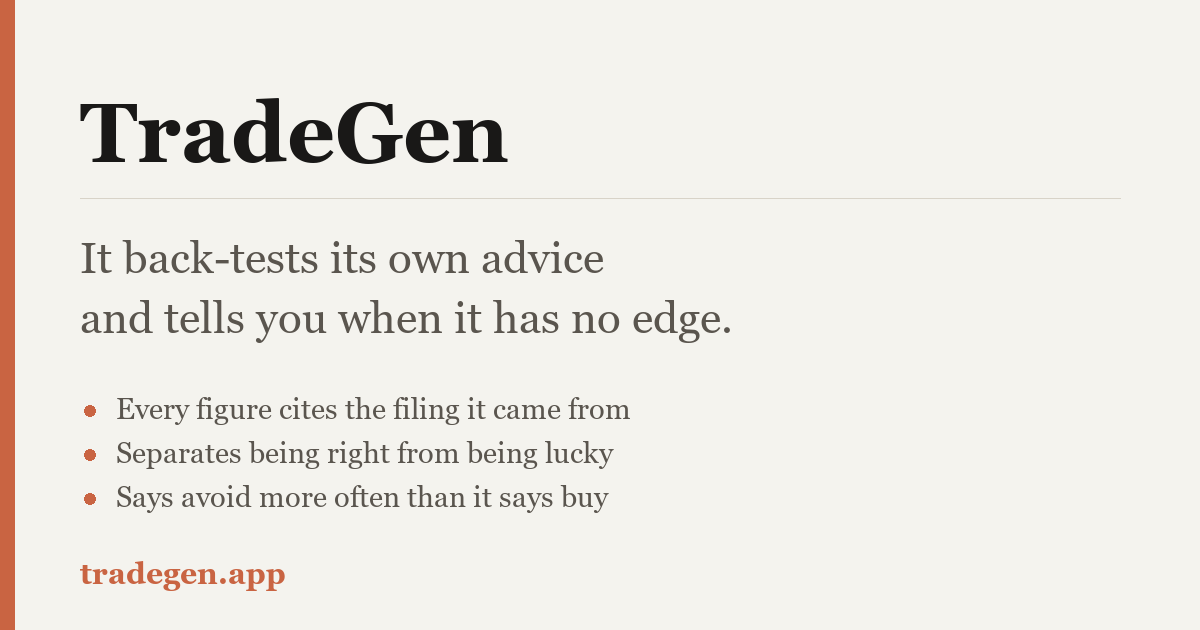
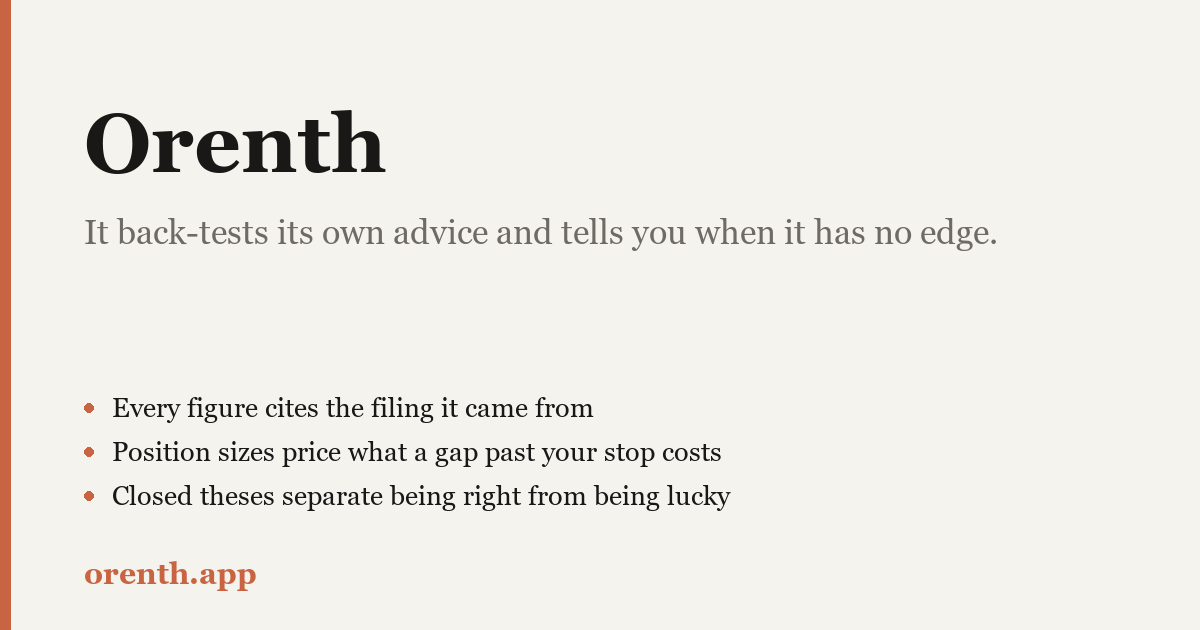
Rename the product to Orenth
TradeGen collided with an established crypto project that owns the word in
search results, so the name could never be searched for. Orenth has no
incumbent: the domain was unregistered and the word returns nothing.

The domain itself was only ever hardcoded in one test; everything else
reads STOCKBOT_PUBLIC_URL, so the cutover is an environment variable and
not a code change. The preview card had the old name painted into it, so
it is now generated by a script rather than drawn once by hand.

diff --git a/templates/legal.html b/templates/legal.html
@@ -1,6 +1,6 @@
 {% extends "base.html" %}
 {% set active = 'legal' %}
-{% block title %}{{ heading }} · TradeGen{% endblock %}
+{% block title %}{{ heading }} · Orenth{% endblock %}
 {% block content %}
 
 <div class="pagehead">
@@ -12,13 +12,13 @@
 {% if page == 'privacy' %}
 
   <p class="prose">
-    This describes what TradeGen actually does with data. It is written to be
+    This describes what Orenth actually does with data. It is written to be
     checkable against the source rather than to be comprehensive, and where a
     thing does not happen it says so plainly instead of staying silent.
   </p>
 
   <h2>What is collected</h2>
-  <p class="prose">If you sign in with Google, TradeGen receives and stores:</p>
+  <p class="prose">If you sign in with Google, Orenth receives and stores:</p>
   <ul class="list">
     <li>Your email address, used as the identity of your account.</li>
     <li>Your name and profile picture, used to show who is signed in.</li>
@@ -26,7 +26,7 @@
       email address changes.</li>
   </ul>
   <p class="prose">
-    That is the whole of it. TradeGen asks Google only for the
+    That is the whole of it. Orenth asks Google only for the
     <span class="fig">openid</span>, <span class="fig">email</span> and
     <span class="fig">profile</span> scopes. It cannot read your Gmail, Drive,
     contacts or calendar, and it never sees your Google password.
@@ -49,7 +49,7 @@
 
   <h2>Where data goes</h2>
   <p class="prose">
-    To produce an analysis, TradeGen sends the instrument you asked about to
+    To produce an analysis, Orenth sends the instrument you asked about to
     the sources it reads. It does not send your identity, your positions or your
     journal to any of them.
   </p>
@@ -102,7 +102,7 @@
 
   <h2>What this is</h2>
   <p class="prose">
-    TradeGen is analysis software. It reads public market data, filings, news
+    Orenth is analysis software. It reads public market data, filings, news
     and social posts, applies a set of strategies to them, back-tests those
     strategies against the instrument's own history, and reports what it found.
   </p>

diff --git a/templates/base.html b/templates/base.html
@@ -9,19 +9,19 @@
    click and a link people scroll past. #}
 {% set _blurb = "Free stock and crypto research. It back-tests its own advice, charges real trading costs, and tells you when it has no edge. Every company figure cites the SEC filing it came from." %}
 <meta name="description" content="{{ _blurb }}">
-<meta property="og:site_name" content="TradeGen">
+<meta property="og:site_name" content="Orenth">
 <meta property="og:type" content="website">
-<meta property="og:title" content="{% block og_title %}TradeGen{% endblock %}">
+<meta property="og:title" content="{% block og_title %}Orenth{% endblock %}">
 <meta property="og:description" content="{{ _blurb }}">
 <meta property="og:url" content="{{ canonical_url }}">
 <meta property="og:image" content="{{ preview_image }}">
 <meta property="og:image:width" content="1200">
 <meta property="og:image:height" content="630">
 <meta name="twitter:card" content="summary_large_image">
-<meta name="twitter:title" content="TradeGen">
+<meta name="twitter:title" content="Orenth">
 <meta name="twitter:description" content="{{ _blurb }}">
 <meta name="twitter:image" content="{{ preview_image }}">
-<title>{% block title %}TradeGen{% endblock %}</title>
+<title>{% block title %}Orenth{% endblock %}</title>
 {# Preconnect first so the font request is not waiting on DNS and TLS.
    Source Serif stands in for Tiempos, Inter for Styrene, JetBrains Mono for
    the figures. All three have real fallback stacks in the CSS. #}
@@ -42,7 +42,7 @@
           <path d="M3 16.5l5.5-6 4 3.5L21 5"/><path d="M15 5h6v6"/>
         </svg>
       </span>
-      TradeGen
+      Orenth
     </a>
     <nav class="nav">
       <a href="{{ url_for('index') }}"
@@ -144,7 +144,7 @@
       bar.hidden = false;
       if (window.Notification && Notification.permission === 'granted') {
         try {
-          new Notification('TradeGen', { body: text.textContent });
+          new Notification('Orenth', { body: text.textContent });
         } catch (e) {}
       }
     }

diff --git a/templates/signin.html b/templates/signin.html
@@ -1,6 +1,6 @@
 {% extends "base.html" %}
 {% set active = 'signin' %}
-{% block title %}TradeGen · Stock and crypto research that back-tests its own advice{% endblock %}
+{% block title %}Orenth · Stock and crypto research that back-tests its own advice{% endblock %}
 {% block content %}
 
 <div class="signin">
@@ -11,7 +11,7 @@
     </svg>
   </div>
 
-  <h1>TradeGen</h1>
+  <h1>Orenth</h1>
   <p class="lede">
     Most tools tell you what to buy. This one back-tests its own advice, tells
     you when there is no edge, and keeps score of whether you were right for
@@ -42,7 +42,7 @@
       Continue with Google
     </a>
     <p class="fine">
-      TradeGen asks Google only for your name, email address and profile
+      Orenth asks Google only for your name, email address and profile
       picture. It cannot see anything else in your Google account, and it never
       sees your password.
     </p>

diff --git a/templates/error.html b/templates/error.html
@@ -1,5 +1,5 @@
 {% extends "base.html" %}
-{% block title %}Something went wrong · TradeGen{% endblock %}
+{% block title %}Something went wrong · Orenth{% endblock %}
 {% block content %}
 
 <div class="pagehead">
@@ -13,7 +13,7 @@
   <p class="fig loss" style="font-size:var(--t-sm);margin:0 0 var(--s2)">{{ message }}</p>
   {% if no_key %}
     <p class="prose">To read charts from images, create a file called
-      <b>.env</b> in the TradeGen folder containing:</p>
+      <b>.env</b> in the Orenth folder containing:</p>
     <p class="fig" style="background:var(--sunken);border:1px solid var(--rule);
        border-radius:var(--r-sm);padding:12px var(--s2);font-size:var(--t-xs);
        margin:var(--s2) 0">ANTHROPIC_API_KEY=your-key-here</p>

diff --git a/templates/research.html b/templates/research.html
@@ -1,6 +1,6 @@
 {% extends "base.html" %}
 {% set active = 'home' %}
-{% block title %}{{ r.symbol }} research · TradeGen{% endblock %}
+{% block title %}{{ r.symbol }} research · Orenth{% endblock %}
 
 {% macro lean(v) %}
   <div class="lean"><span class="zero"></span>

diff --git a/templates/analysis.html b/templates/analysis.html
@@ -1,6 +1,6 @@
 {% extends "base.html" %}
 {% set active = 'home' %}
-{% block title %}{{ r.bars.symbol }} · TradeGen{% endblock %}
+{% block title %}{{ r.bars.symbol }} · Orenth{% endblock %}
 
 {% macro lean(v) %}
   <div class="lean"><span class="zero"></span>

diff --git a/templates/ideas.html b/templates/ideas.html
@@ -1,6 +1,6 @@
 {% extends "base.html" %}
 {% set active = 'ideas' %}
-{% block title %}Find something · TradeGen{% endblock %}
+{% block title %}Find something · Orenth{% endblock %}
 {% block content %}
 
 <div class="pagehead">

diff --git a/templates/strategies.html b/templates/strategies.html
@@ -1,6 +1,6 @@
 {% extends "base.html" %}
 {% set active = 'strategies' %}
-{% block title %}Strategies · TradeGen{% endblock %}
+{% block title %}Strategies · Orenth{% endblock %}
 {% block content %}
 
 <div class="pagehead">

diff --git a/templates/portfolio.html b/templates/portfolio.html
@@ -1,6 +1,6 @@
 {% extends "base.html" %}
 {% set active = 'portfolio' %}
-{% block title %}Portfolio · TradeGen{% endblock %}
+{% block title %}Portfolio · Orenth{% endblock %}
 {% block content %}
 
 <div class="pagehead">

diff --git a/templates/screener.html b/templates/screener.html
@@ -1,6 +1,6 @@
 {% extends "base.html" %}
 {% set active = 'screener' %}
-{% block title %}Screener · TradeGen{% endblock %}
+{% block title %}Screener · Orenth{% endblock %}
 {% block content %}
 
 <div class="pagehead">

diff --git a/templates/settings.html b/templates/settings.html
@@ -1,6 +1,6 @@
 {% extends "base.html" %}
 {% set active = 'settings' %}
-{% block title %}Settings · TradeGen{% endblock %}
+{% block title %}Settings · Orenth{% endblock %}
 {% block content %}
 
 <div class="pagehead">

diff --git a/templates/account.html b/templates/account.html
@@ -1,6 +1,6 @@
 {% extends "base.html" %}
 {% set active = 'account' %}
-{% block title %}Account · TradeGen{% endblock %}
+{% block title %}Account · Orenth{% endblock %}
 {% block content %}
 
 <div class="pagehead">
